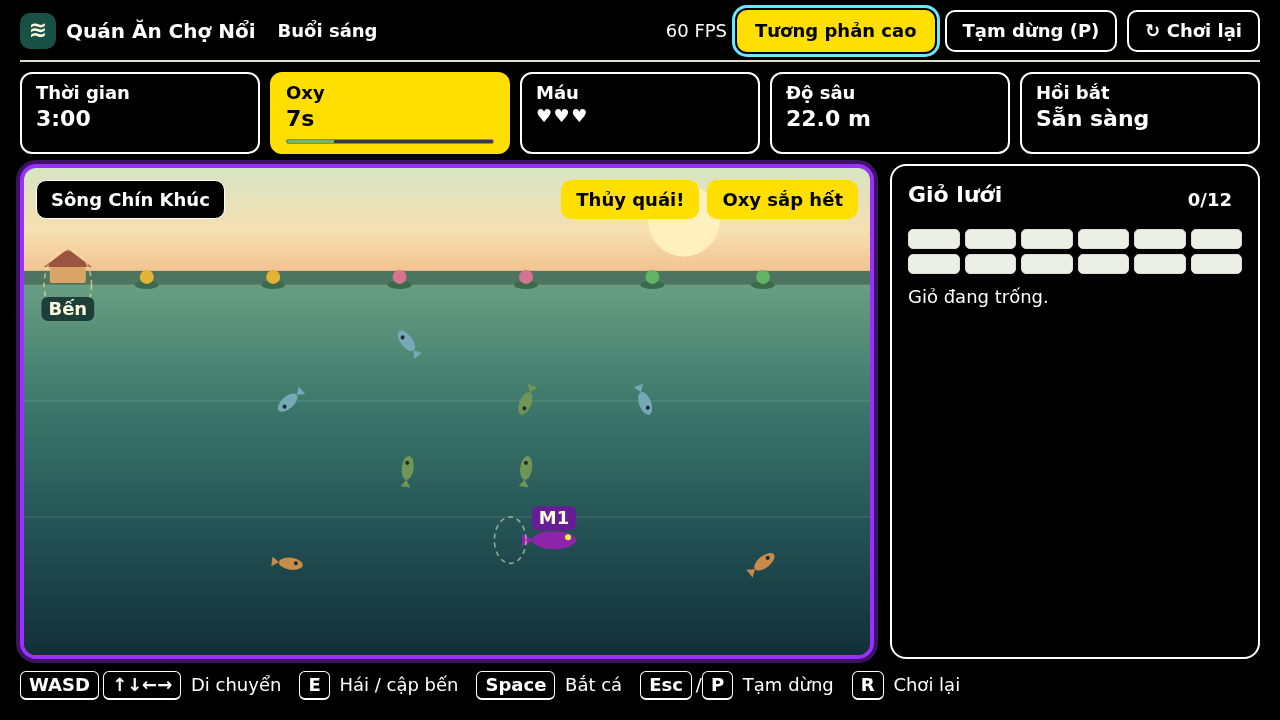
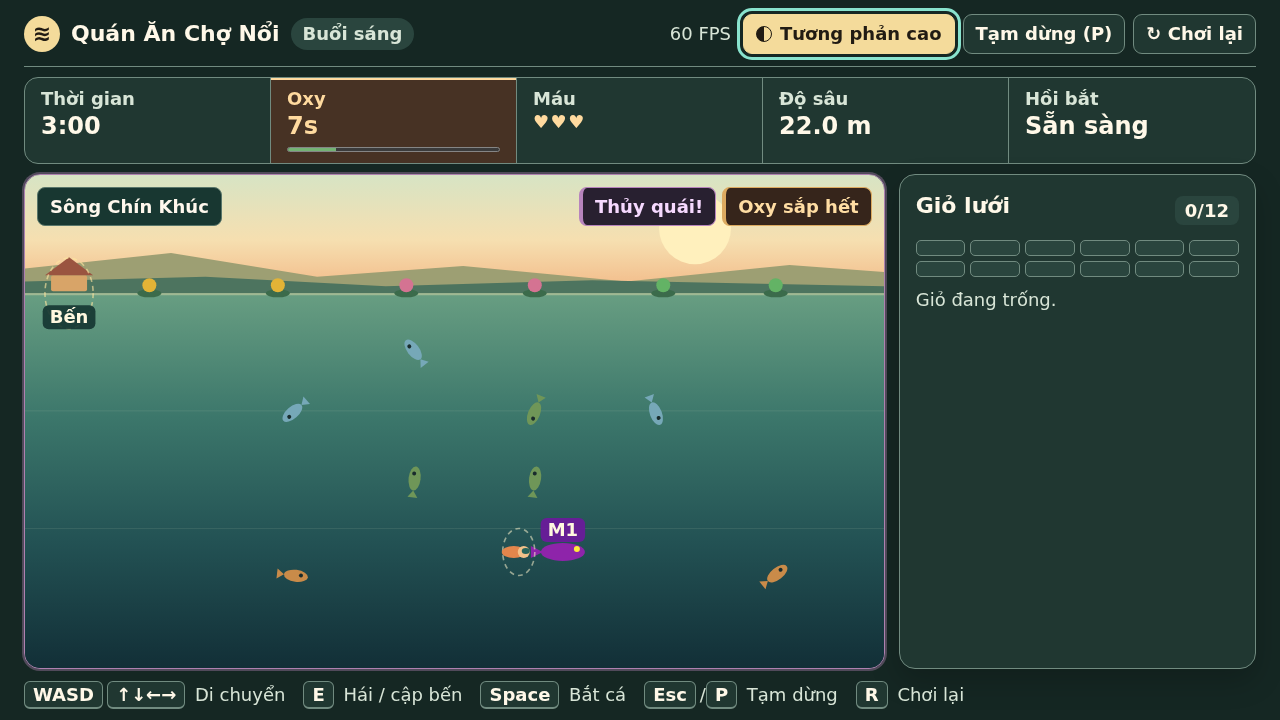
Refresh Phase 4 UI screenshots and contrast checks

diff --git a/docs/proof/phase-4/ui/README.md b/docs/proof/phase-4/ui/README.md
@@ -1,14 +1,16 @@
 # Bàn giao Phase 4 · Lát 2 UI/Live
 
-- Nhánh `p4/accessible-ui`. Commit chứa mã đã kiểm `2738fdd082c580edba2c5ca85c2636e11b30b3ff`.
+- Nhánh `p4/accessible-ui`. Commit chứa mã đã kiểm `f49728b618b98cbd75da9f9bead2038f168b5b38`.
 - Hồi quy trên manifest của nhánh và fixture kho cá thể v1.2 trong test Live. Chrome 157 headless có render canvas ở 1280×720 trên Linux x86_64, dùng manifest v1.2 tạm thời với cấu hình độ tươi Phase 3.
 - `chonoi/live.py` được sửa để nối màn trình bày vào phiên chơi và xuất kho cá thể ở Shop qua `item_rows()`. Trở về menu dựng lại lượt với cùng seed và scenario. Chơi lại ở Day mở màn giới thiệu Ngày 1. Tương phản cao mặc định tắt mỗi lần tải trang.
 
 | AC | Đã kiểm trên nhánh UI | Bằng chứng |
 |---|---|---|
 | AC-P4-02 | Gather thật, seed 42, đứng ở bến, hook trả các timestamp hữu hạn và tăng dần. Hook im lặng ở demo, menu, intro và sau khi vào Quán. | [Log Chrome](browser.log) |
-| AC-P4-03 | Bật/tắt bằng Tab, Enter và Space. Kiểm cả ba cảnh báo trên Live ở tương phản cao. Demo kiểm mốc 25%, oxy cạn/hồi và khách ngừng chờ. | [Gather](gather-contrast.png) · [Quán](quan-contrast.png) |
+| AC-P4-03 | Bật/tắt bằng Tab, Enter và Space. Tương phản chữ trên Live lần lượt 12,16:1 cho thủy quái, 11,22:1 cho oxy và 9,02:1 cho khách sắp giận. Demo kiểm mốc 25%, oxy cạn/hồi và khách ngừng chờ. | [Gather thường](gather-default.png) · [Gather tương phản cao](gather-contrast.png) · [Quán tương phản cao](quan-contrast.png) |
 | AC-P4-07 | Chơi một Ngày trên Live qua cả hai ca, kết quả, đóng Shop và Tổng kết. Test HTTP kiểm thời gian đứng yên ở màn chờ, số liệu phục vụ, boa, uy tín và kho cá thể. | [Tổng kết](day-summary.png) · [Log Chrome](browser.log) · [114/114 test](unittest.log) |
+
+Bố cục Gather vừa cửa sổ 1280×720 và giữ cảnh báo trong cảnh chơi ở 390×844.
 
 Chạy lại hồi quy từ gốc repo.
 
